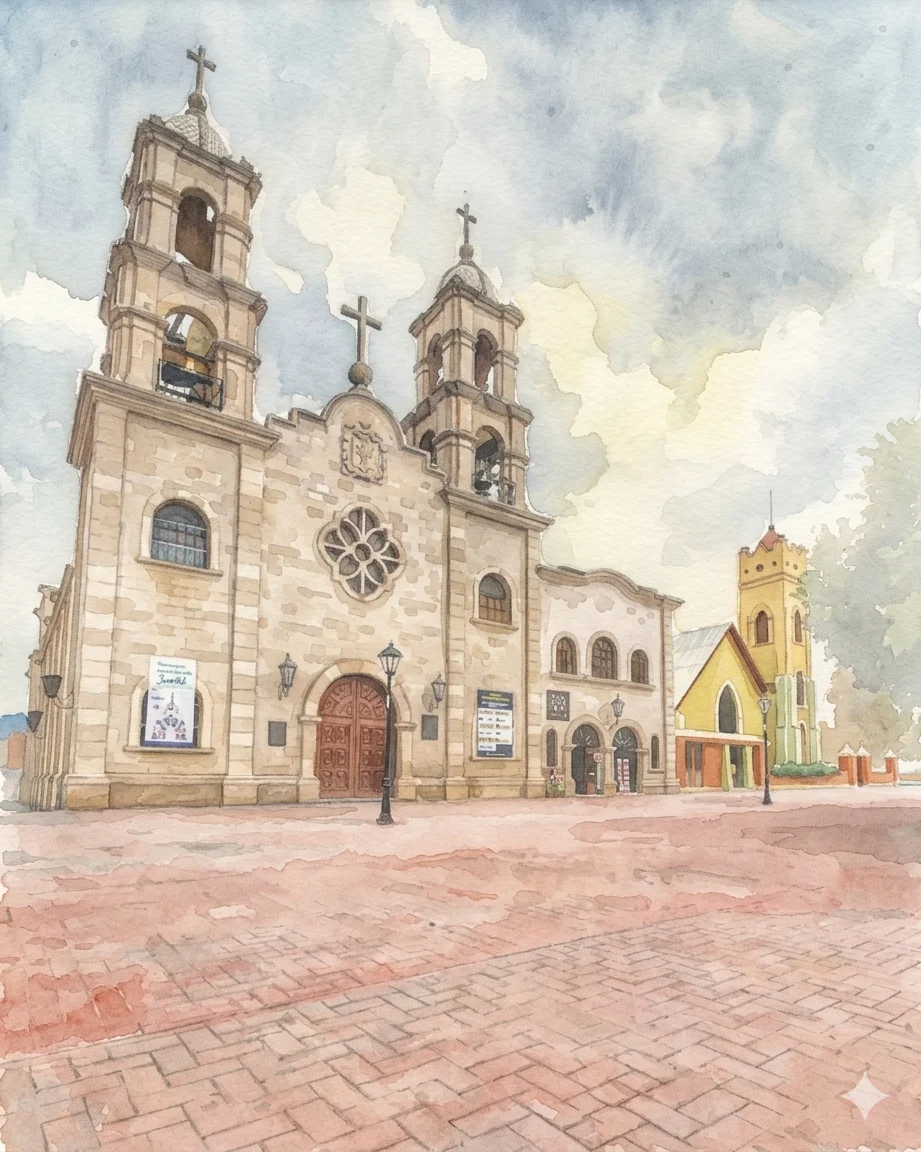
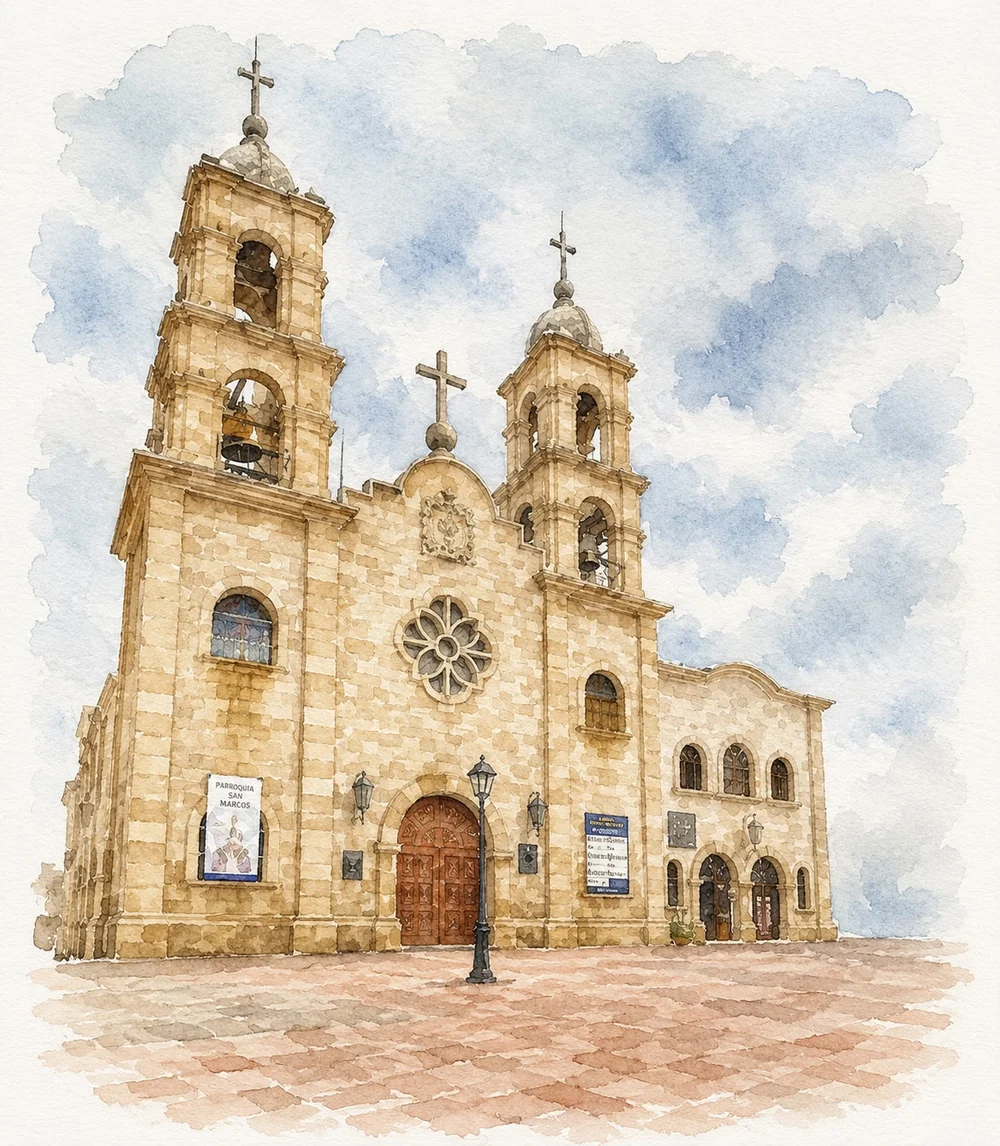
feat: nuevas acuarelas iglesia y salon + nuevo video del sobre

diff --git a/index.html b/index.html
@@ -1093,7 +1093,7 @@ h2 em{font-family:var(--script)!important;font-style:normal!important;color:var(
 <div id="envelope-screen" role="button" aria-label="Toca para abrir la invitación" tabindex="0">
   <img id="env-image" src="sobre.webp" alt="">
   <video id="env-video" muted playsinline preload="auto">
-    <source src="https://bsjoelxktbvlavfoozhk.supabase.co/storage/v1/object/public/fotos-clientes/video/boda-fernanda-y-ricardo/sobre2.mp4" type="video/mp4">
+    <source src="https://bsjoelxktbvlavfoozhk.supabase.co/storage/v1/object/public/fotos-clientes/video/boda-fernanda-y-ricardo/sobre3.mp4" type="video/mp4">
   </video>
   <div id="env-hint">
     <span class="eh-row"><span class="eh-line"></span><span class="eh-txt">Toca para abrir</span><span class="eh-line"></span></span>
@@ -1262,7 +1262,7 @@ h2 em{font-family:var(--script)!important;font-style:normal!important;color:var(
         </article>
 
         <article class="loc-card" data-tilt>
-          <div class="soft-img"><img src="hero-foto.webp" alt="Jardín y Salón Montecielo en acuarela" loading="lazy"></div>
+          <div class="soft-img"><img src="salon.webp" alt="Jardín y Salón Montecielo en acuarela" loading="lazy"></div>
           <div class="loc-type">Recepción</div>
           <div class="loc-name">Jardín &amp; Salón Montecielo</div>
           <div class="loc-time">9:00 PM</div>
